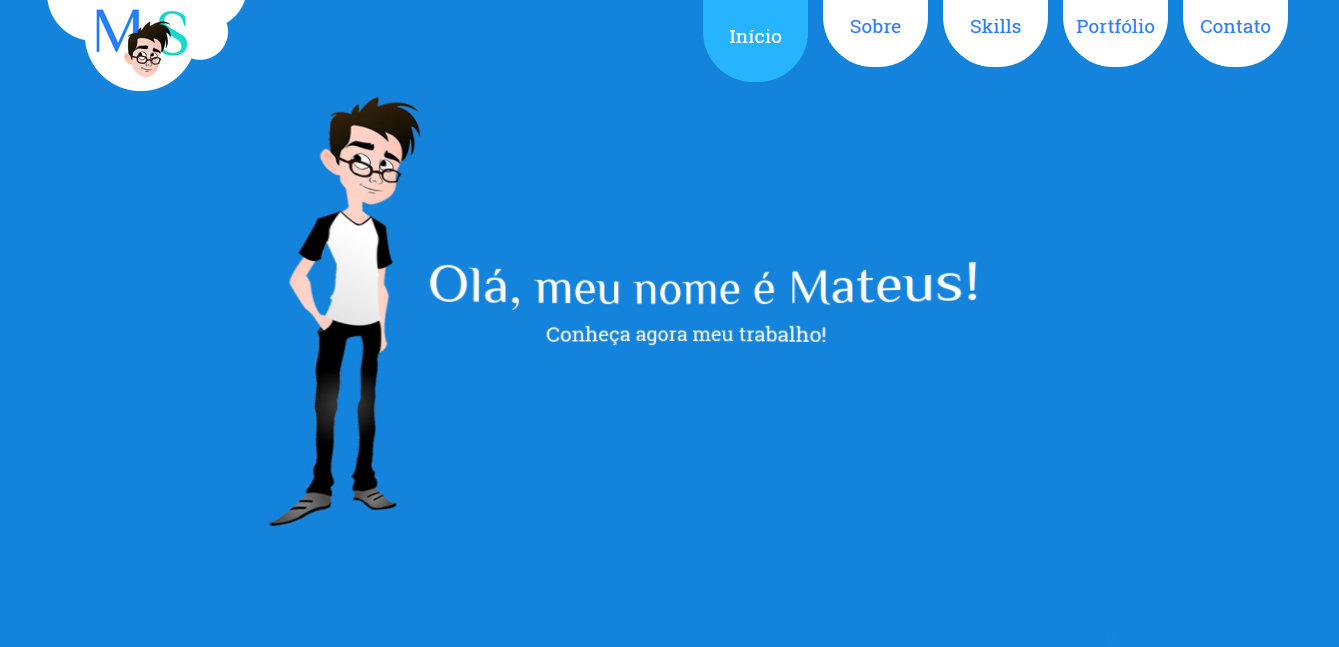
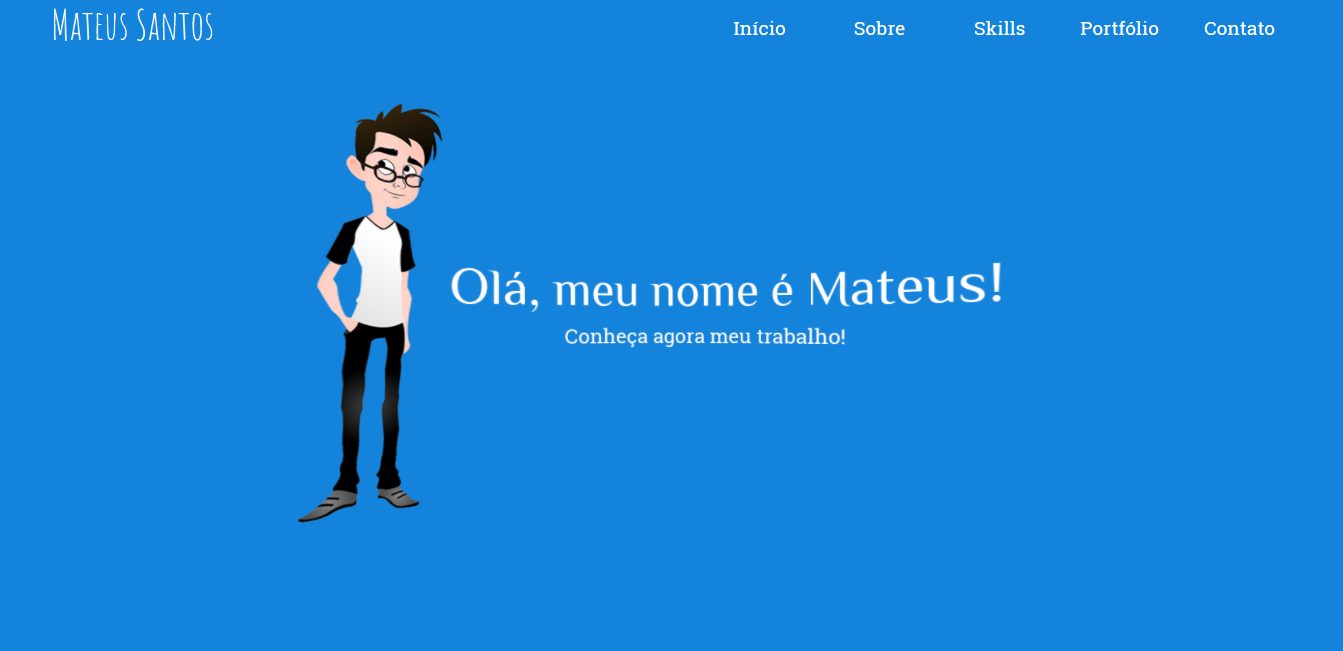
Novos ajustes

diff --git a/index.html b/index.html
@@ -15,13 +15,16 @@
 	<link rel="stylesheet" type="text/css" href="css/testimonials.css">
 	<link rel="stylesheet" href="https://use.fontawesome.com/releases/v5.0.9/css/all.css" integrity="sha384-5SOiIsAziJl6AWe0HWRKTXlfcSHKmYV4RBF18PPJ173Kzn7jzMyFuTtk8JA7QQG1" crossorigin="anonymous">
 	<link href="https://fonts.googleapis.com/css?family=Philosopher|Roboto+Slab" rel="stylesheet">
+	<link href="https://fonts.googleapis.com/css?family=Amatic+SC" rel="stylesheet">
 	<meta name="viewport" content="width=device-width, initial-scale=1">
 </head>
 <body>
+	<div id="preloader">
+		<div id="status"></div>
+	</div>
 	<!-- CABEÇALHO/MENU-->
 	<header class="cabecalho">
-		<a href="#home" class="scroll"><img src="img/logo.png" id="logoDesktop"></a>
-		<a href="#home" class="scroll"><img src="img/logoMobile.png" id="logoMobile"></a>
+		<a href="#home" class="scroll" id="logo">Mateus Santos</a>
 		<button id="btn-menu"><i class="fa fa-bars fa-lg"></i></button>
 		<nav id="menu">
 			<a id="btn-close"><i class="fa fa-times"></i></a>
@@ -49,9 +52,9 @@
 	</div>
 	<!--PÁGINA SOBRE-->
 	<section id="about">
-		<img src="img/profile.jpg" class="anime">
+		<img src="img/profile.jpeg" class="anime">
 		<h1 class="anime">Quem é Mateus Santos?</h1><br/>
-		<h5 class="anime">Me chamo Mateus Pereira dos Santos, tenho 18 anos e resido em Cascavel-CE, cidade metropolitana de Fortaleza. Possuo curso técnico em informática atrelada ao ensino médio, porém meu contato com a programação veio antes disso, por volta dos 13 anos, quando descobri o universo do desenvolvimento web. Atualmente estou cursando Sistemas e Mídias Digitais na Universidade Federal do Ceará, curso este que além de aperfeiçoar meus conhecimentos de programação, ainda me possibilita ser um profissional muito mais completo, sendo capaz de entender e desenvolver projetos em diversas áreas da tecnologia, como design, audiovisual, redes de computadores... Durante esse meio tempo me apaixonei também pelo mundo mobile, e desde então me tornei mais focado no desenvolvimento de sistemas Web e Android.</h5>
+		<h5 class="anime">Me chamo Mateus Pereira dos Santos, tenho 18 anos e resido em Cascavel-CE, cidade metropolitana de Fortaleza. Possuo curso técnico em informática atrelada ao ensino médio, porém meu contato com a programação veio antes disso, por volta dos 13 anos, quando descobri o universo do desenvolvimento web. Atualmente estou cursando Sistemas e Mídias Digitais na Universidade Federal do Ceará, curso este que além de aperfeiçoar meus conhecimentos de programação, ainda me possibilita ser um profissional muito mais completo, sendo capaz de entender e desenvolver projetos em diversas áreas da tecnologia, como design, audiovisual, redes de computadores... Durante esse meio tempo me apaixonei também pelo mundo mobile, e desde então me tornei mais focado no desenvolvimento Full Stack de aplicações Web.</h5>
 		<h1 id="titleCuriosidades" class="anime">Algumas curiosidades...</h1>
 		<i class="fas fa-beer anime" id="beer"></i>
 		<i class="fas fa-headphones anime" id="phone"></i>
@@ -75,7 +78,7 @@
 	<!--PÁGINA HABILIDADES-->
 	<section id="skills">
 		<h1 class="anime">Minhas Habilidades</h1><br/>
-		<h1 class="anime"><i class="fas fa-globe"></i> WEB</h1>
+		<!-- <h1 class="anime"><i class="fas fa-globe"></i> WEB</h1> -->
 		<ul id="grid-skills">
 			<div class="esquerda">
 				<li class="anime"><i class="far fa-hand-point-right"></i>HTML5</li>
@@ -85,13 +88,13 @@
 			</div>
 			<i class="fas fa-desktop anime" id="iconPC"></i>			
 			<div class="direita">
-				<li class="anime"><i class="far fa-hand-point-right"></i>P5.js</li>
+				<li class="anime"><i class="far fa-hand-point-right"></i>Java</li>
 				<li class="anime"><i class="far fa-hand-point-right"></i>PHP</li>
 				<li class="anime"><i class="far fa-hand-point-right"></i>MySQL</li>
 				<li class="anime"><i class="far fa-hand-point-right"></i>PostgreSQL</li>
 			</div>
 		</ul>
-		<h1 class="anime"><i class="fas fa-mobile-alt anime"></i> ANDROID</h1>
+		<!-- <h1 class="anime"><i class="fas fa-mobile-alt anime"></i> ANDROID</h1>
 		<ul id="grid-skills">
 			<div class="esquerda">
 				<li class="anime"><i class="far fa-hand-point-right"></i>Android Studio</li>
@@ -100,14 +103,14 @@
 			</div>
 			<i class="fab fa-android anime" id="iconAndroid"></i>
 			<div></div>
-		</ul>
+		</ul> -->
 	</section>
 
 	<!--PÁGINA TRABALHOS-->
 	<section id="works">
 		<h1 class="anime">Trabalhos</h1>
-		<button id="btn-web" class="active anime">Web</button>
-		<button id="btn-android"  class="anime">Android</button><br/>
+		<!-- <button id="btn-web" class="active anime">Web</button>
+		<button id="btn-android"  class="anime">Android</button><br/> -->
 		<div id="listWeb">
 			<div class="job callModal" id="callModal1">
 				<i class="fas fa-ellipsis-h" id="fone"></i>
@@ -131,7 +134,7 @@
 				<i class="fas fa-stop-circle"></i>
 			</div>
 		</div>
-		<div id="listAndroid">
+		<!-- <div id="listAndroid">
 			<div class="job">
 				<i class="fas fa-ellipsis-h" id="fone"></i>
 				<h3>Não Encontrado</h3>
@@ -139,7 +142,7 @@
 				<img src="img/not_found.png">
 				<i class="fas fa-stop-circle"></i>
 			</div>
-		</div>
+		</div> -->
 		<!-- MODALS -->
 		<div id="modal1" class="modal">
 			<div class="modal-content">
@@ -149,7 +152,7 @@
 					<p>Smart Ear é um aplicativo desenvolvido pela equipe Now Loading, do qual fiz parte no 2º semestre no curso de Sistemas e Mídias Digitais, da Universidade Federal do Ceará. O aplicativo faz parte do 2º Projeto Integrado do curso, que visa tornar os universitários mais próximos do mercado de trabalho, tendo que desenvolver aplicações para um cliente específico.
 						A aplicação tem como função o ensino da teoria musical de uma forma lúdica e dinâmica, através de tarefas e mini-jogos.</p>
 					<p>Função: Programação back-end e front-end.<br/>
-						Linguagens utilizadas: HTML, CSS, P5.js</p>
+						Linguagens utilizadas: HTML5, CSS3, P5.js</p>
 					<a href="https://nowloadingsmd.github.io/smartEar/" target="_blank"><button>Acesse aqui!</button></a>
 				</div>
 			</div>
@@ -162,8 +165,8 @@
 					<p>UFCine é uma plataforma online de straming de filmes produzidos no curso de Cinema e Audiovisual da Universidade Federal do Ceará.
 							Além dos filmes, o sistema ainda dá acesso aos portólios dos alunos do curso.</p>
 					<p>Função: Programação front-end.<br/>
-						Linguagens utilizadas: HTML, CSS, JavaScript</p>
-					<a href="https://nowloadingsmd.github.io/smartEar/" target="_blank"><button>Acesse aqui!</button></a>
+						Linguagens utilizadas: HTML5, CSS3, JavaScript, JQuery, MongoDB</p>
+					<a href="https://cineflixsmd.herokuapp.com/" target="_blank"><button>Acesse aqui!</button></a>
 				</div>
 			</div>
 		</div>
@@ -174,13 +177,13 @@
 					<span class="close"><i class="fa fa-times"></i></span><br/>
 					<p>Este é o site do meu portfólio pessoal, que demonstra um pouco da minha tragetória profissional.</p>
 					<p>Função: Designer e Desenvolvedor.<br/>
-						Linguagens utilizadas: HTML, CSS, JavaScript</p>
+						Linguagens utilizadas: HTML5, CSS3, JavaScript, JQuery</p>
 					<a href="https://uaumateus.github.io/Portfolio/" target="_blank"><button>Acesse aqui!</button></a>
 				</div>
 			</div>
 		</div>
 		
-		<div class="cd-testimonials-wrapper cd-container">
+		<!-- <div class="cd-testimonials-wrapper cd-container">
 			<h1 class="anime">Depoimentos</h1>
 			<ul class="cd-testimonials">
 				<li>
@@ -216,7 +219,7 @@
 					</div>
 				</li>
 			</ul>
-		</div>
+		</div> -->
 	</section>
 
 	<!--PÁGINA CONTATO-->
@@ -240,9 +243,9 @@
 
 	<!--RODAPÉ / REDES SOCIAIS-->
 	<footer>
-		<a href="https://www.facebook.com/uaumateus" title="facebook.com/uaumateus" target="_blank"><i class="fab fa-facebook-f"></i></a>
+		<!-- <a href="https://www.facebook.com/uaumateus" title="facebook.com/uaumateus" target="_blank"><i class="fab fa-facebook-f"></i></a> -->
 		<a href="https://www.instagram.com/uau_mateus" title="instagram.com/uau_mateus" target="_blank"><i class="fab fa-instagram"></i></a>
-		<a href="https://twitter.com/uau_mateus" title="twitter.com/uau_mateus" target="_blank"><i class="fab fa-twitter"></i></a>
+		<a href="https://www.linkedin.com/in/uaumateus/" title="linkedin.com/in/uaumateus" target="_blank"><i class="fab fa-linkedin-in"></i>
 		<a href="https://github.com/uaumateus" title="github.com/uaumateus" target="_blank"><i class="fab fa-github"></i></a>
 		<a title="mateus.pereira99@hotmail.com"><i class="far fa-envelope"></i>
 		<p id="copyright">© Copyright 2018 - Mateus Santos</p>

diff --git a/css/desktop.css b/css/desktop.css
@@ -7,8 +7,15 @@
 		display: none;
 	}
 	.cabecalho{
-		background: none;
+		background: rgba(0, 0, 0, 0);
+		transition: 0.5s background;
 		padding: 0 4%;
+	}
+	#logo{
+		font-family: 'Amatic SC', cursive;
+		color: #fff;
+		text-decoration: none;
+		font-size: 2.5em;
 	}
 	#logoDesktop{
 		display: block;
@@ -32,27 +39,28 @@
 		padding: 0;
 		float: left;
 		list-style-type: none;
-		background-color: #fff;
+		/* background-color: #fff; */
 		margin-left: 15px;
 		width: 105px;
-		border-radius: 0 0 50px 50px;
-		height: 70px;
-		transition: 0.5s height, 0.5s padding;
+		/* border-radius: 0 0 50px 50px; */
+		height: 56px;
+		/* transition: 0.5s height, 0.5s padding; */
 	}
-	#menu li:hover{
+	/* #menu li:hover{
 		height: 85px;
 		padding-top: 10px;
+	} */
+	#menu li a{
+		color: #fff;
 	}
 	#menu li a:hover{
 		border: none;
 	}
 	#menu .active{
-		background-color: #26b3ff;
-		transition: 0.7s background-color;
-		height: 85px;
-		transition: 0.5s height;
-		padding-top: 10px;
-		transition: 0.5s padding-top;
+		/* height: 85px; */
+		/* transition: 0.5s height; */
+		/* padding-top: 10px; */
+		/* transition: 0.5s padding-top; */
 		transition: 0.5s background-color;
 	}
 	#menu .active a{
@@ -83,19 +91,19 @@
 	/* MUDANÇA DE CORES POR PÁGINA */
 
 	.home .active{
-		background-color: #26b3ff !important;
-	}
-	.about .active{
 		background-color: #2680ff !important;
 	}
-	.skills .active{
+	.about .active{
 		background-color: #26b3ff !important;
 	}
+	.skills .active{
+		background-color: #1cdcff !important;
+	}
 	.works .active{
-		background-color: #22e8a6 !important;
+		background-color: #1ad8cf !important;
 	}
 	.contact .active{
-		background-color: #1ad8cf !important;
+		background-color: #22e8a6 !important;
 	}
 	.home li a{
 		transition: 1s color;
@@ -171,7 +179,7 @@
 		font-size: 3em;
 	}
 	#works{
-		height: 1050px;
+		height: 90%;
 		padding-left: 2%;
 	}
 	#works .job{

diff --git a/css/mobile.css b/css/mobile.css
@@ -30,9 +30,14 @@
 	width: 100%;
 	float: left;
 	padding: 2% 4%;
-	background-color: #fff;
 	position: fixed;
 	z-index: 10 !important;
+}
+#logo{
+	font-family: 'Amatic SC', cursive;
+	color: #fff;
+	text-decoration: none;
+	font-size: 2.0em;
 }
 #logoDesktop{
 	display: none;
@@ -47,23 +52,22 @@
 	height: 40px;
 	float: right;
 	text-align: center;
-	color: #000;
+	color: #fff;
 	border-radius: 40px;
-	border: 1px solid #2680ff; 
+	/* border: 1px solid #2680ff;  */
 	cursor: pointer;
-	background-color: #fff;
-	transition: 1s background-color;
+	background: none;
 	transition: 0.5s color;
 }
 #btn-menu:hover{
-	background-color: #2680ff;
-	color: #fff;
+	/* color: #000; */
 }
 #btn-close{
 	color: #2680ff;
 	float: right;
 	cursor: pointer;
-	margin: 3% 5% 0 0;
+	margin-top: 12px;
+	margin-right: 22px;
 	font-size: 1.3em;
 }
 
@@ -311,7 +315,7 @@
 }
 
 .modal-content {
-	background-color: #2680ff;
+	background-color: #fff;
 	width: 100%; 
 	height: 100%;
 	overflow: hidden;
@@ -351,13 +355,13 @@
 .modal p{
 	margin: 30px;
 	text-align: left;
-	color: #fff;
+	color: #2680ff;
 }
 
 .modal button{
 	background: none;
-	border: 2px solid #fff;
-	color: #fff;
+	border: 2px solid #2680ff;
+	color: #2680ff;
 	padding: 5px 15px;
 	border-radius: 50px;
 	transition: background 0.5s, color 0.5s, border 0.5s;

diff --git a/js/global.js b/js/global.js
@@ -1,9 +1,25 @@
 jQuery(document).ready(function($) { 
+  jQuery(window).on('load',function(){
+    jQuery("#status").fadeOut();
+    jQuery("#preloader").delay(1000).fadeOut("slow");
+  });
 	//EFEITO DE SCROLL
 	$(".scroll").click(function(event){        
 		event.preventDefault();
 		$('html,body').animate({scrollTop:$(this.hash).offset().top}, 600);
-	});
+  });
+  
+  jQuery(window).scroll(function () {
+    if (jQuery(this).scrollTop() > 1) {
+     $(".cabecalho").css('background-color', 'rgb(255,255,255)');
+     $("#logo").css('color', '#000');
+     $("#btn-menu").css('color', '#2680ff');
+    } else {
+     $(".cabecalho").css('background-color', 'rgb(0,0,0,0)');
+     $("#logo").css('color', '#fff');
+     $("#btn-menu").css('color', '#fff');
+    }
+   });
 
 	//MOSTRAR MENU MOBILE
 	$("#btn-menu").click(function(){
@@ -127,7 +143,5 @@ jQuery(document).ready(function($) {
 	}, 1));
   })();
 });
-
-
 
 

diff --git a/css/global.css b/css/global.css
@@ -25,3 +25,27 @@ html,body{
 	transform: translate3d(0,0,0);
 }
 
+#preloader{
+	position: fixed;
+	z-index: 9999;
+	top: 0;
+	left: 0;
+	height: 100%;
+	width: 100%;
+	background: #2680ff;
+}
+
+#status{
+	border: 5px solid #fff; /* Light grey */
+    border-top: 5px solid #2680ff; /* Blue */
+	border-radius: 50%;
+	margin-left: 49%;
+	margin-top: 45vh;
+    width: 3vw;
+	height: 3vw;
+    animation: spin 1.5s linear infinite;
+}
+@keyframes spin {
+    0% { transform: rotate(0deg); }
+    100% { transform: rotate(360deg); }
+}
